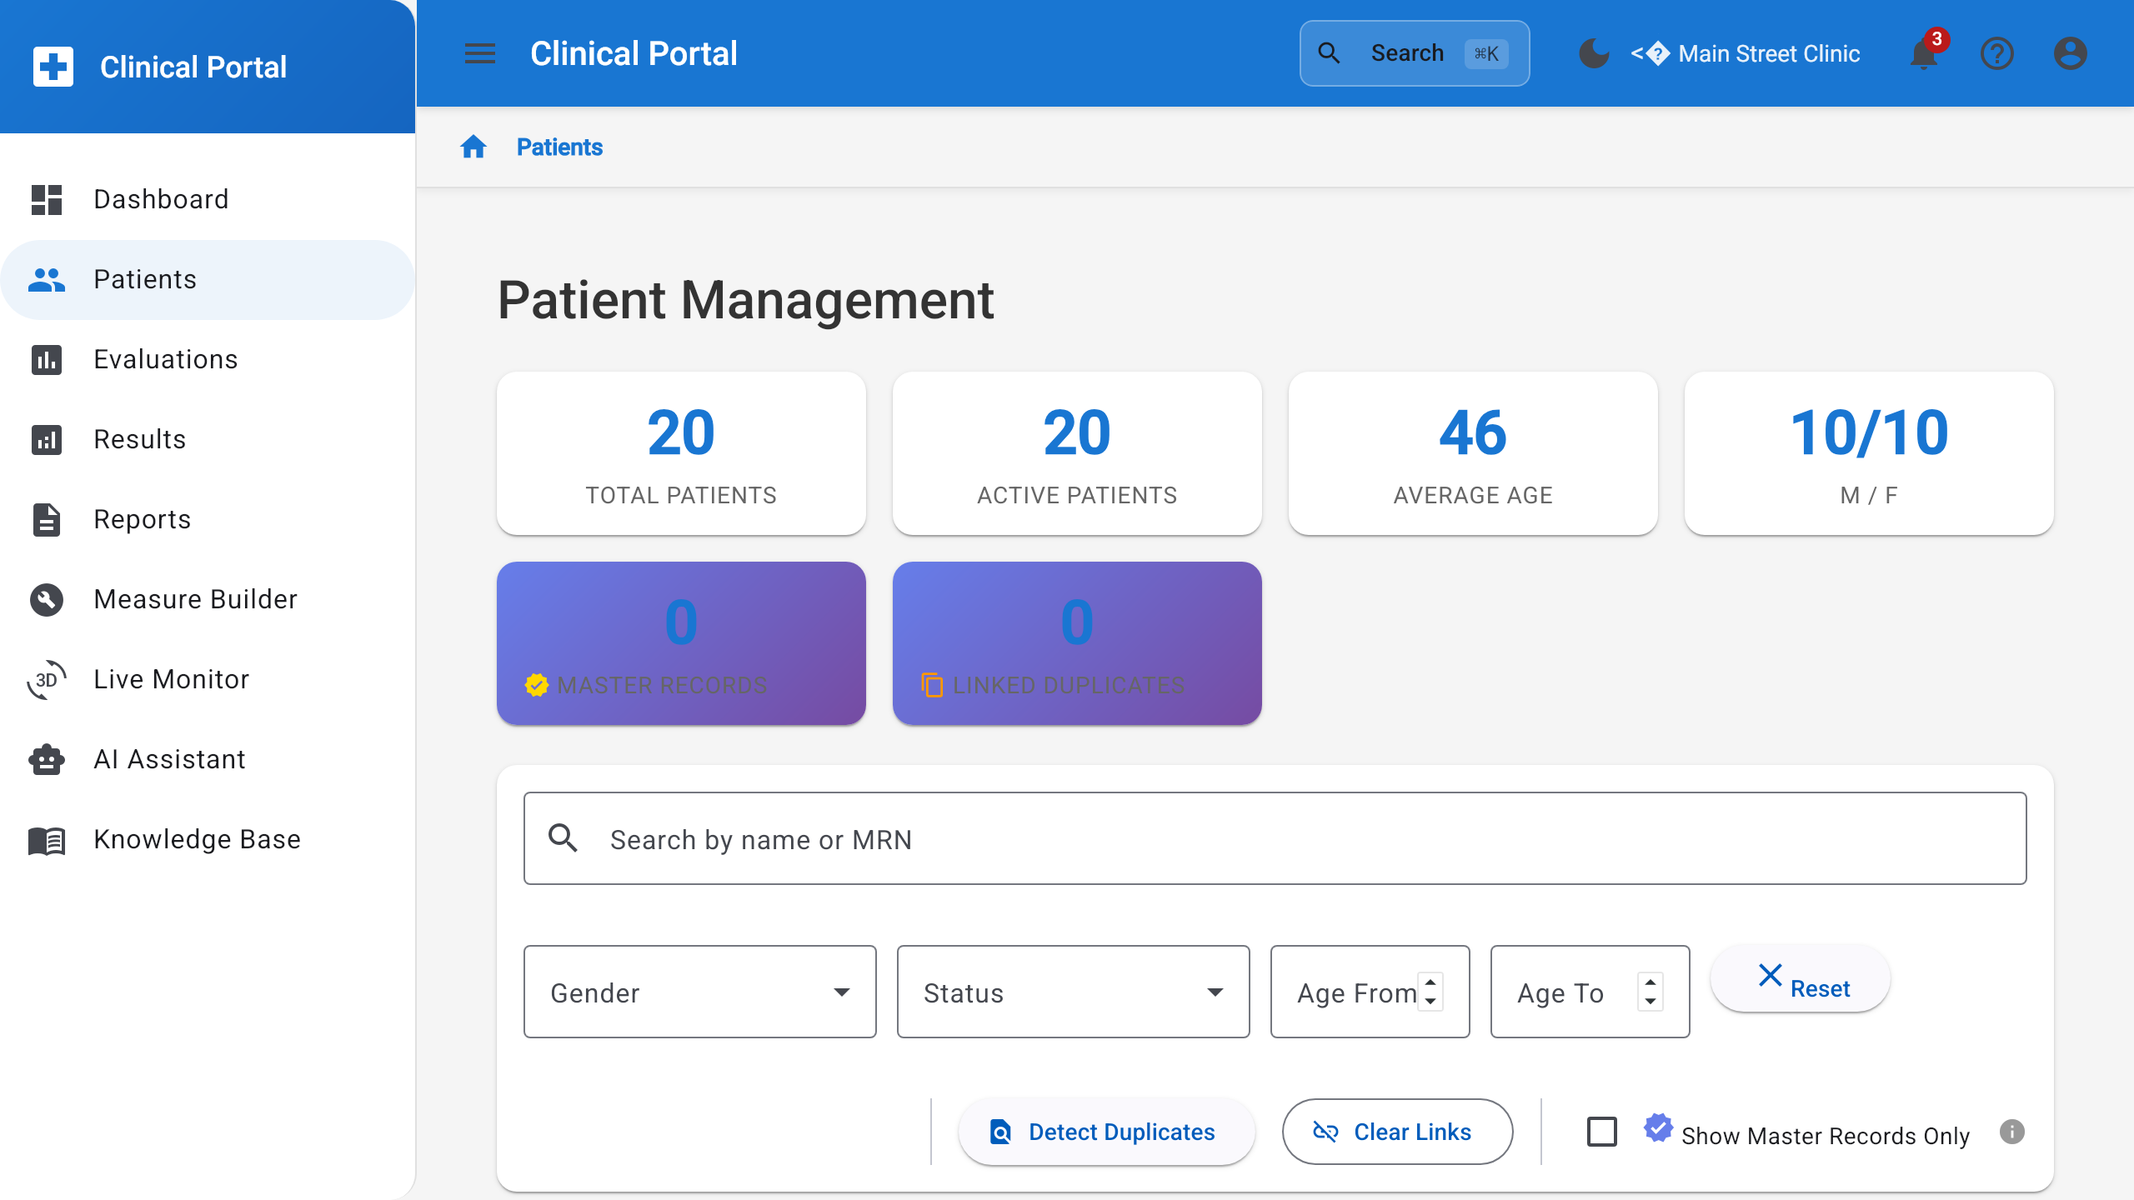
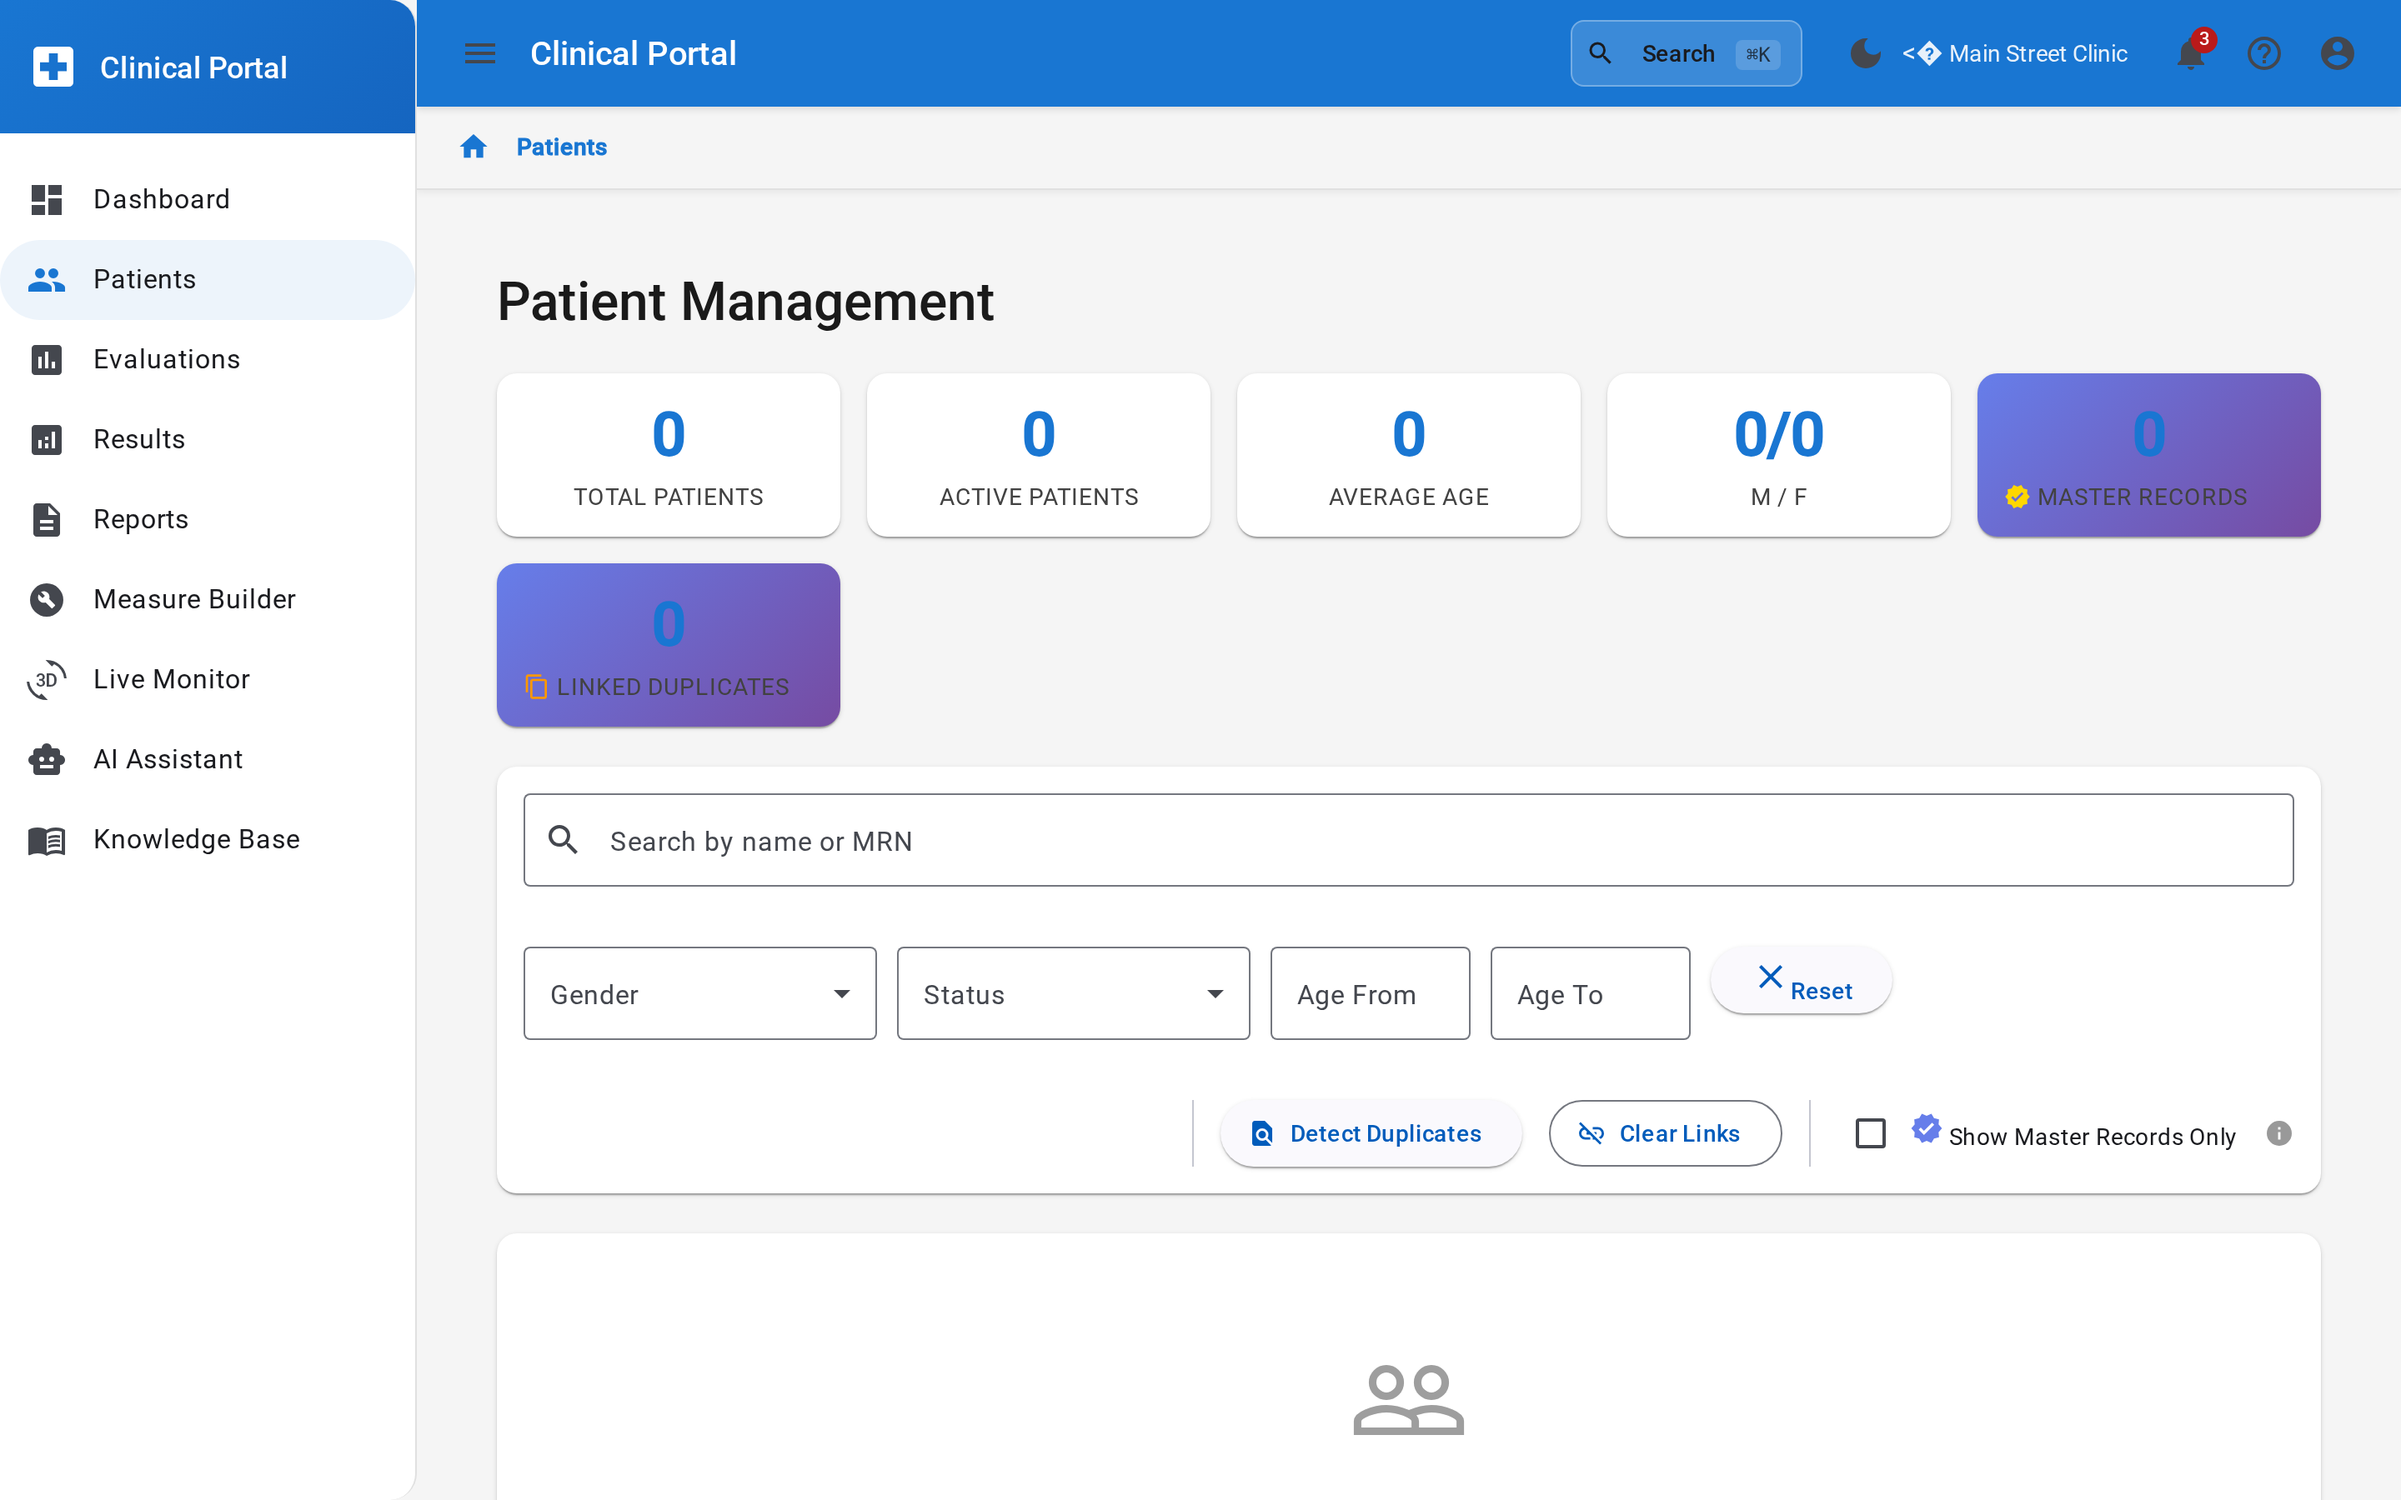
feat(screenshots): Add live platform screenshots with demo mode auth
- Add Playwright-based screenshot capture script
- Update dashboard, patients, evaluations, results, reports screenshots
- Add new live-monitor, ai-assistant, care-gaps screenshots
- All screenshots captured at 2880x1800 (2x retina)
- Uses demo mode authentication for authenticated views

Screenshots show:
- Clinical Dashboard with role-based views
- Patient management and search
- Quality Measure evaluations (CQL Engine working)
- Results and analytics
- Care gap management
- Reports with CMS/HEDIS templates
- Live Monitor with system health
- AI Assistant interface

🤖 Generated with [Claude Code](https://claude.com/claude-code)

diff --git a/campaigns/hdim-linkedin-b2b/capture-screenshots.js b/campaigns/hdim-linkedin-b2b/capture-screenshots.js
@@ -1,0 +1,196 @@
+const { chromium } = require('playwright');
+const path = require('path');
+const fs = require('fs');
+
+const SCREENSHOTS_DIR = path.join(__dirname, 'vercel-deploy/assets/screenshots');
+const BASE_URL = 'http://localhost:4200';
+
+// Ensure directory exists
+if (!fs.existsSync(SCREENSHOTS_DIR)) {
+    fs.mkdirSync(SCREENSHOTS_DIR, { recursive: true });
+}
+
+async function captureScreenshots() {
+    console.log('Launching browser...');
+    const browser = await chromium.launch({
+        headless: true,
+        args: ['--no-sandbox', '--disable-setuid-sandbox']
+    });
+
+    const context = await browser.newContext({
+        viewport: { width: 1440, height: 900 },
+        deviceScaleFactor: 2 // High-res for retina
+    });
+
+    const page = await context.newPage();
+
+    try {
+        // Step 1: Login via Demo Mode
+        console.log('Navigating to login page...');
+        await page.goto(`${BASE_URL}/login`, { waitUntil: 'networkidle', timeout: 60000 });
+        await page.waitForTimeout(2000);
+
+        // Look for demo login button
+        console.log('Looking for Demo Login button...');
+        const demoButton = page.locator('button:has-text("Demo Login")');
+
+        if (await demoButton.isVisible({ timeout: 5000 })) {
+            console.log('Clicking Demo Login...');
+            await demoButton.click();
+            await page.waitForTimeout(3000); // Wait for redirect
+
+            // Wait for navigation to complete
+            await page.waitForURL('**/dashboard**', { timeout: 30000 }).catch(() => {
+                console.log('Did not redirect to dashboard, checking current URL...');
+            });
+            console.log('Current URL:', page.url());
+        } else {
+            console.log('Demo Login button not found, setting localStorage directly...');
+
+            // Set demo auth directly in localStorage
+            await page.evaluate(() => {
+                const demoToken = 'demo-jwt-token-' + Date.now();
+                const demoUser = {
+                    id: 'demo-user-1',
+                    username: 'demo',
+                    email: 'demo@healthdata.com',
+                    firstName: 'Demo',
+                    lastName: 'User',
+                    fullName: 'Demo User',
+                    roles: [{
+                        id: 'role-admin',
+                        name: 'ADMIN',
+                        description: 'Administrator',
+                        permissions: [
+                            { id: 'perm-1', name: 'VIEW_PATIENTS' },
+                            { id: 'perm-2', name: 'EDIT_PATIENTS' },
+                            { id: 'perm-3', name: 'VIEW_EVALUATIONS' },
+                            { id: 'perm-4', name: 'RUN_EVALUATIONS' },
+                            { id: 'perm-5', name: 'EXPORT_DATA' },
+                        ],
+                    }],
+                    tenantId: 'demo-tenant',
+                    active: true,
+                };
+                localStorage.setItem('healthdata_auth_token', demoToken);
+                localStorage.setItem('healthdata_user', JSON.stringify(demoUser));
+            });
+
+            // Reload to pick up auth
+            await page.goto(`${BASE_URL}/dashboard`, { waitUntil: 'networkidle', timeout: 60000 });
+        }
+
+        await page.waitForTimeout(2000);
+        console.log('Authenticated. Current URL:', page.url());
+
+        // 1. Dashboard Screenshot
+        console.log('Capturing dashboard...');
+        await page.goto(`${BASE_URL}/dashboard`, { waitUntil: 'networkidle', timeout: 60000 });
+        await page.waitForTimeout(3000); // Wait for data to load
+        await page.screenshot({
+            path: path.join(SCREENSHOTS_DIR, 'dashboard.png'),
+            fullPage: false
+        });
+        console.log('Dashboard captured!');
+
+        // 2. Patients List Screenshot
+        console.log('Capturing patients...');
+        await page.goto(`${BASE_URL}/patients`, { waitUntil: 'networkidle', timeout: 60000 });
+        await page.waitForTimeout(3000);
+        await page.screenshot({
+            path: path.join(SCREENSHOTS_DIR, 'patients.png'),
+            fullPage: false
+        });
+        console.log('Patients captured!');
+
+        // 3. Quality Measures / Evaluations Screenshot
+        console.log('Capturing evaluations...');
+        await page.goto(`${BASE_URL}/evaluations`, { waitUntil: 'networkidle', timeout: 60000 });
+        await page.waitForTimeout(4000); // Extra time for measure loading
+        await page.screenshot({
+            path: path.join(SCREENSHOTS_DIR, 'evaluations.png'),
+            fullPage: false
+        });
+        console.log('Evaluations captured!');
+
+        // 4. Results/Analytics Screenshot
+        console.log('Capturing results...');
+        await page.goto(`${BASE_URL}/results`, { waitUntil: 'networkidle', timeout: 60000 });
+        await page.waitForTimeout(3000);
+        await page.screenshot({
+            path: path.join(SCREENSHOTS_DIR, 'results.png'),
+            fullPage: false
+        });
+        console.log('Results captured!');
+
+        // 5. Care Gaps Screenshot
+        console.log('Capturing care gaps...');
+        await page.goto(`${BASE_URL}/care-gaps`, { waitUntil: 'networkidle', timeout: 60000 });
+        await page.waitForTimeout(3000);
+        await page.screenshot({
+            path: path.join(SCREENSHOTS_DIR, 'care-gaps.png'),
+            fullPage: false
+        });
+        console.log('Care gaps captured!');
+
+        // 6. Reports Screenshot
+        console.log('Capturing reports...');
+        await page.goto(`${BASE_URL}/reports`, { waitUntil: 'networkidle', timeout: 60000 });
+        await page.waitForTimeout(3000);
+        await page.screenshot({
+            path: path.join(SCREENSHOTS_DIR, 'reports.png'),
+            fullPage: false
+        });
+        console.log('Reports captured!');
+
+        // 7. Live Monitor Screenshot (if exists)
+        console.log('Capturing live monitor...');
+        try {
+            await page.goto(`${BASE_URL}/live-monitor`, { waitUntil: 'networkidle', timeout: 30000 });
+            await page.waitForTimeout(3000);
+            await page.screenshot({
+                path: path.join(SCREENSHOTS_DIR, 'live-monitor.png'),
+                fullPage: false
+            });
+            console.log('Live monitor captured!');
+        } catch (e) {
+            console.log('Live monitor page not available, skipping...');
+        }
+
+        // 8. AI Assistant Screenshot (if exists)
+        console.log('Capturing AI assistant...');
+        try {
+            await page.goto(`${BASE_URL}/ai-assistant`, { waitUntil: 'networkidle', timeout: 30000 });
+            await page.waitForTimeout(3000);
+            await page.screenshot({
+                path: path.join(SCREENSHOTS_DIR, 'ai-assistant.png'),
+                fullPage: false
+            });
+            console.log('AI assistant captured!');
+        } catch (e) {
+            console.log('AI assistant page not available, skipping...');
+        }
+
+        console.log('\n=== Screenshot capture complete ===');
+        console.log(`Screenshots saved to: ${SCREENSHOTS_DIR}`);
+
+    } catch (error) {
+        console.error('Error capturing screenshots:', error.message);
+        console.error('Full error:', error);
+
+        // Save error state screenshot
+        try {
+            await page.screenshot({
+                path: path.join(SCREENSHOTS_DIR, 'error-state.png'),
+                fullPage: true
+            });
+            console.log('Error state screenshot saved');
+        } catch (e) {
+            console.error('Could not save error screenshot');
+        }
+    } finally {
+        await browser.close();
+    }
+}
+
+captureScreenshots();
